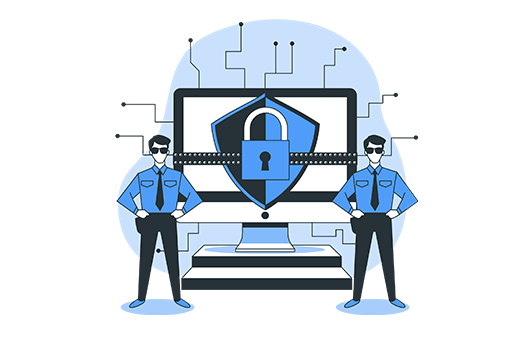
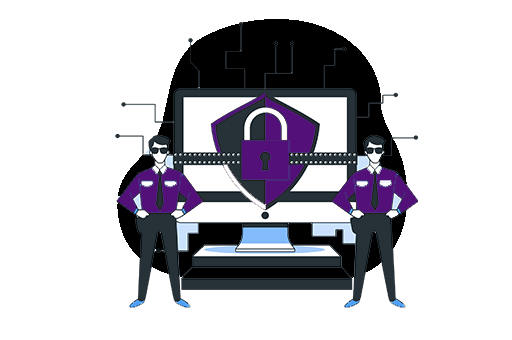
alteracoes de cores, e background sobre.html

diff --git a/sobre.html b/sobre.html
@@ -10,13 +10,13 @@
 </head>
 <body>
   <!-- header-->
-  <header style="background-image: url('imag/o-tecnico-consertando-o-computador-hardware-de-computador-consertando-atualize-e-tecnologia.jpg');">
+  <header id="img-sobre">
     <!-- container-->
 
     <div class="container">
       <nav>
         <a href="index.html">
-          <h1>Rapida Informatica</h1>
+          <h1 class="h1-primario">Rapida Informatica</h1>
         </a>
         <ul class="ul">
           <a href="index.html">HOME</a>
@@ -35,7 +35,7 @@
       </nav>
       <section class="banner">
         <div class="baner">
-           <h1>Sobre</h1>
+           <h1 class="sobre-texto1">S O B R E</h1>
           
         </div>
       </section>
@@ -47,11 +47,13 @@
   </header>
  <!-- fim header-->
 
+
+
  <section class="sobre">
     <div class="container">
         <div class="sobre-texto">
-         <h3>Estamos neste mercado a 8 anos</h3>
-         <p>Oi vamos falar sobre tecnoclogia</p>
+         <h3>Nosso ponto Forte é Segurança</h3>
+         <p>Trabalhamos com manutenção de computadores e notbooks , desde limpeza até manutenção de hardware , montagem e desmontagem de hardware. Sempre pensando na segurança do dispositivo em mãos.</p>
          <a href="contato.html" class="btn animate-btn">Entrar em Contato</a>
         </div>
 
@@ -62,14 +64,14 @@
  </section>
  <!--inicio footer-->
 
-<footer class="footer">
+<footer class="footer" style="background-color: #000;">
   <div class="container">
     <div class="links">
       <a href="https://github.com/CaioDevPR" target="_blank"><img src="/imag/logo-github.svg" alt=""></a>
       <a href="https://www.instagram.com/rapidainformatica/" target="_blank"><img src="/imag/logo-instagram.svg" alt=""></a>
       <a href="https://wa.me/5543988614820" target="_blank"><img src="/imag/logo-whatsapp.svg" alt=""></a>
       <a href="https://www.linkedin.com/in/caioprogramadorpr/" target="_blank"><img src="/imag/logo-linkedin.svg" alt=""></a>
-      <p> Desenvolvido por Caio Vinicius</p>
+      <p style="color: #fff;"> Desenvolvido por Caio Vinicius</p>
     </div>
   </div>
 </footer>

diff --git a/css/style.css b/css/style.css
@@ -72,7 +72,7 @@ color: var(--bodycolor);
 
 nav ul a:not(.btn)::after{
    content: " "; 
-   background-color: red;
+   background-color: var(--bodycolor);
    height: 3px;
    width: 0%;
    display: block;
@@ -109,6 +109,7 @@ nav .close-icon{
     display: inline-block;
     transition: 0.1s ;
 }
+
 
 .btn:hover{
     background-color: #3580db;
@@ -402,8 +403,61 @@ text-align: center;
 }
 
 
+#img-sobre{
+    background-image: url('/imag/fundo\ sobre.jpg');
+    background-position: center;
+    background-size: cover;
+    background-attachment: fixed;
+    filter: grayscale(80%);
+}
 
+.sobre a{
+    border-radius: none;
+}
 
+#img-sobre a{
+    color: var(--navbar);
+}
+
+#img-sobre .btn{
+    background-color: #fffdff;
+    color: var(--navbar);
+    padding: 15px 20px;
+    cursor: pointer;
+    border-radius: 3px;
+    display: inline-block;
+    transition: 0.1s ;
+}
+
+.btn:hover{
+    background-color: #441052;
+}
+
+.btn.animate-btn{
+    animation: animate-outline 1s ease-out infinite;
+}
+
+@keyframes animate-outline{
+    from{
+      outline: 0px solid #000000;
+    }
+    to{
+      outline: 4px solid #fffeff;
+    }
+}
+
+.h1-primario{
+    background-color: var(--bodycolor);
+}
+
+.sobre-texto1{
+background-color: var(--navbar);
+opacity: 0.4;
+}
+
+.sobre .sobre-texto a{
+    background-color:#000000;
+   }
 
 
 

diff --git a/servicos.html b/servicos.html
@@ -10,7 +10,7 @@
 </head>
 <body>
   <!-- header-->
-  <header style="background-image: url('/imag/fundowbesite.jpg');">
+  <header style="background-image: url('/imag/Fundofinal.png');">
     <!-- container-->
 
     <div class="container">
